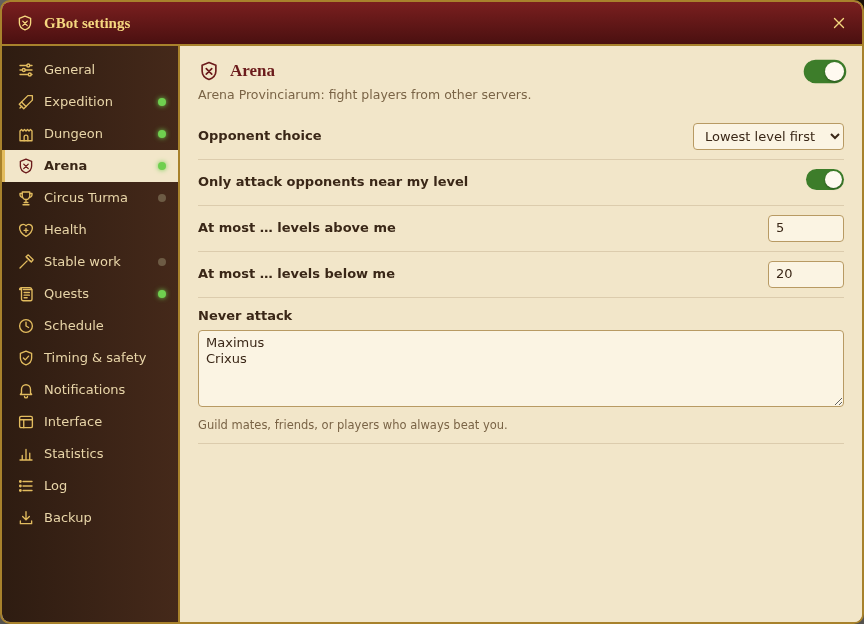
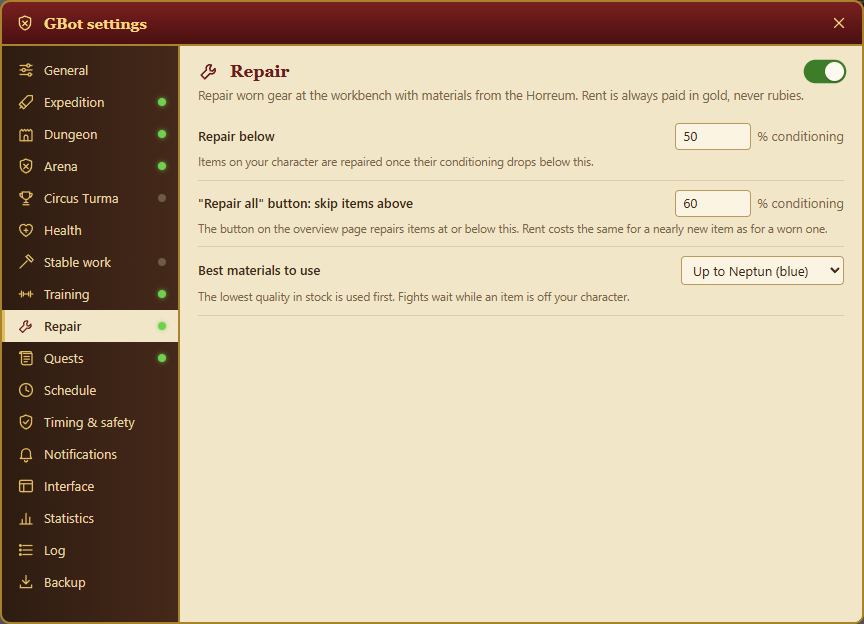
README: describe the current features; new settings screenshot
- Features: enemy nests, training, repair (automatic and the "Repair
  all" button), expedition bonuses before the boss, the arena/circus
  skip list, smarter quests; the bot never spends rubies. New sections
  explain the expedition bonuses and the workbench repair.
- Interface and settings tables match the current tabs and fields;
  statistics list the new totals; the docked bar notes.
- How it works: workbench.js, the immediate first paint, and why the
  repair uses the game's AJAX requests.
- Development: Microsoft Edge works as CHROMIUM_PATH for the e2e tests
  (all 11 pass with it); which features rely on unit tests.
- docs/settings-window.png: re-rendered from the mock game (Repair tab,
  with the Training and Repair tabs in the sidebar).

diff --git a/README.md b/README.md
@@ -14,14 +14,52 @@ of Gladiatus Time Saver, and a settings window lets you tailor every activity.
 
 | Activity | What the bot does |
 | --- | --- |
-| **Expeditions** | Attacks the enemy you choose (1-4) at a location you pick from the game's own list, or at your last visited one, whenever the cooldown is ready. It can keep some points in reserve. |
-| **Dungeons** | Starts a Normal or Advanced dungeon when none is running, then fights the enemies one by one. |
-| **Arena Provinciarum** | Attacks the lowest-level, highest-level or a random opponent. It can stick to opponents near your level and skip names on a never-attack list. If the game refuses a fight, it tries another opponent. |
+| **Expeditions** | Attacks the enemy you choose (1-4) at a location you pick from the game's own list, or at your last visited one, whenever the cooldown is ready. It can keep some points in reserve. With the boss selected, it can first fight the location's other enemies until all their bonuses are learned, so the boss gets them too (see below). |
+| **Dungeons** | Starts a Normal or Advanced dungeon when none is running, then fights the enemies one by one. It never presses *Cancel dungeon*, and it tells you when a dungeon is not unlocked yet. |
+| **Arena Provinciarum** | Attacks the lowest-level, highest-level or a random opponent. It can stick to opponents near your level and skip names on a never-attack list. Opponents who beat you are skipped for a while (24 hours by default). If the game refuses a fight, it tries another opponent. |
 | **Circus Turma Provinciarum** | Same options as the arena. |
+| **Enemy nests** | After some wins the game offers to search the enemy's nest for extra loot. The bot does a quick search, a thorough search, or returns to safety, as you choose. |
 | **Healing** | Eats food below one HP threshold and stops fighting below another. It searches every bag and picks the food that best fills the missing HP. |
+| **Training** | Optional. Spends gold above a reserve you set on stat points, always on the cheapest of the stats you pick, which keeps them balanced. Gold you spend cannot be stolen in the arena. |
+| **Repair** | Optional. When an item you wear drops below a conditioning threshold, the bot takes it off, repairs it at the workbench with materials from the Horreum, and puts it back on (see below). |
 | **Stable work** | Optional. Once you are out of expedition and dungeon points, it starts the job and number of hours you chose. |
-| **Pantheon quests** | Optional. Collects finished quests and accepts new ones of the types you pick. |
+| **Pantheon quests** | Optional. Collects finished quests and accepts the best-paying new one of the types you pick. It skips quests for places you do not fight at and for activities that are switched off, and stops when all quest slots are taken. |
 | **Pop-ups** | Collects the daily login bonus and closes notification dialogs. |
+
+**The bot never spends rubies.** Workbench rent is paid in gold, and expedition bonuses are only
+learned by fighting, never bought.
+
+### Expedition bonuses before the boss
+
+Every expedition enemy has four bonuses (more gold, experience, item chance and honour). Each win
+against an enemy has a chance to teach you one of its missing bonuses. The chance is shown in the
+bonus tooltip and depends on your character and the enemy. Once enemies 1-3 of a location have
+learned a bonus, the game switches it on for the boss as well.
+
+With the boss selected and *Before the boss, learn the other enemies' bonuses* on, the bot fights
+enemies 1-3 in turn, always the first one with bonuses still to learn, and moves on to the boss when
+they are done. The log shows the progress, e.g. *Skeleton Berserker has 4 bonuses left to learn
+(25% per win), fighting it before the boss*. Bonuses you gave up (deactivated for rubies) cannot be
+learned in combat and are not waited for.
+
+### Repairing gear at the workbench
+
+When an item on your character drops below the *Repair below* threshold (50% conditioning by
+default), the bot:
+
+1. takes the item off into a free spot in your bags;
+2. checks the Horreum for the materials the workbench asks for, using the lowest quality first and
+   stopping at the best quality you allow (Neptun, blue, by default);
+3. rents a workbench slot for gold, fills in the materials and starts the repair;
+4. collects the repaired item from the packages and puts it back on.
+
+Fights wait while an item is off your character. If the Horreum has no suitable materials, the item
+goes straight back on and is tried again in 6 hours. If a step keeps failing, the bot puts the item
+back on, or logs where it is (on the workbench or in the packages).
+
+The overview page also gets a **Repair all** button under your character. It repairs every item at
+or below a cutoff (60% by default, changeable under *Repair*), worst first, one at a time. It works
+even while the bot is stopped.
 
 You can also tailor how the bot behaves:
 
@@ -32,6 +70,8 @@ You can also tailor how the bot behaves:
   bot sleeps until the next cooldown ends instead of polling.
 * **Loop protection.** An activity that keeps failing, for example after a game update, is paused
   for a while instead of reloading the page forever. The reason appears in the log.
+* **Fight results.** Every combat report is read. The log shows each fight as won or lost with the
+  gold, experience and honour or fame it brought, and *Statistics* shows win rates and totals.
 * **Notifications.** Desktop alerts when you are logged out, when an activity gets paused, or when
   HP is low and there is no food left. Each one can be turned off.
 * **One tab per server, with a watchdog.** Only one game tab runs the bot. If that tab hangs, it is
@@ -45,16 +85,18 @@ You can also tailor how the bot behaves:
 * **Start / Stop** turns the bot on and off.
 * **Check now** re-checks the game immediately. **Minimise** folds the bar down to its title.
 * **Status** shows what the bot is doing, what comes next and when, plus your HP, expedition and
-  dungeon points, and gold.
+  dungeon points, and gold. It is filled in as soon as the page loads.
 * **Activity tiles** (Expedition, Dungeon, Arena, Circus, Heal, Work, Quests):
   * Click a tile to switch that activity on or off.
   * Each tile shows its live state: *ready*, a cooldown countdown, *no points*, *low HP*, *paused*,
     or *off*.
   * Hover a tile and click its small gear to open that activity's settings.
-* **Footer:** statistics for the session, and shortcuts to the stats and log.
+* **Last log line**, then a **footer** with statistics for the session and shortcuts to the stats
+  and log.
 
 The bar floats and can be dragged anywhere; its position is remembered. Under *Interface* you can
-instead dock it along the top of the page, where it pushes the game down rather than covering it:
+instead dock it along the top of the page, where it pushes the game (and Gameforge's own top strip)
+down rather than covering it. In a narrow window its tiles wrap onto a second row:
 
 ![Docked bar](docs/docked-bar.png)
 
@@ -66,18 +108,20 @@ what is enabled. Changes save as you make them and take effect immediately.
 
 | Tab | Options |
 | --- | --- |
-| General | Bot on/off, activity priority order |
-| Expedition | Location (last visited, one from the game's list, or any id), enemy 1-4, points to keep in reserve |
+| General | Bot on/off, activity priority order, enemy nest search (quick / thorough / return to safety / leave it to me) |
+| Expedition | Location (last visited, one from the game's list, or any id), enemy 1-4, learn the other enemies' bonuses before the boss, points to keep in reserve |
 | Dungeon | Location, Normal/Advanced, points to keep in reserve |
-| Arena / Circus Turma | Lowest / highest / random opponent, level range around yours, never-attack list |
-| Health | Eat food below X% HP, stop fighting below Y% HP |
+| Arena / Circus Turma | Lowest / highest / random opponent, level range around yours, never-attack list, how long to skip opponents who beat you |
+| Health | Eat food on/off, eat below X% HP, stop fighting below Y% HP |
 | Stable work | Job number, hours |
-| Quests | Quest types to accept |
+| Training | Gold to always keep, stats to train |
+| Repair | Repair below X% conditioning, cutoff for the *Repair all* button, best material quality to use |
+| Quests | Quest types to accept (combat, arena, circus, expedition, dungeon, items, work), only quests for my location and dungeon, only quests for activities that are on |
 | Schedule | Active hours, random breaks |
 | Timing & safety | Click delay range, longest idle time, failed attempts before pausing, pause length |
 | Notifications | Which desktop notifications to show |
 | Interface | Show the bar, floating or docked |
-| Statistics | Fights per activity, per-hour rates, gold change, reset |
+| Statistics | Fights per activity with wins, losses and win rate; meals, nests, quests, work shifts, stats trained, items repaired; gold looted, experience, honour and fame; gold change; per-hour rates; reset |
 | Log | Recent activity, filter to warnings only, clear |
 | Backup | Export to a file or the clipboard, import, reset to defaults |
 
@@ -104,6 +148,9 @@ for statistics and logs.
 In Firefox the extension may start without access to the game website. If the popup shows
 **Grant access**, click it (or allow the site under *about:addons → GBot → Permissions*).
 
+After changing or updating the files, reload the extension (the ↻ button on its card in
+`chrome://extensions`) and refresh the game tab.
+
 ### Packaged zips
 
 ```sh
@@ -114,7 +161,8 @@ npm run build        # -> dist/gbot-chrome.zip and dist/gbot-firefox.zip
 ## Usage
 
 1. Log in to your Gladiatus server as usual. The GBot bar appears on the game page.
-2. Switch the activities you want on in the tiles. Fine-tune them in the settings window.
+2. Switch the activities you want on in the tiles. Fine-tune them in the settings window. Training
+   and Repair are off until you switch them on in their tabs.
 3. Press **Start**.
 
 Keep the game tab open (it can be in the background). The bot never logs in for you: if the session
@@ -126,10 +174,14 @@ expires, log in again and it carries on. Settings saved by version 1.0 are migra
 manifest.json                 MV3 manifest, valid for Chrome and Firefox
 src/shared/settings.js        defaults, validation rules, migration, storage
 src/content/selectors.js      ALL knowledge of the game's HTML (IDs, classes, URLs)
-src/content/state.js          reads HP, points, cooldowns, locations, dialogs from the DOM
-src/content/brain.js          pure decision engine: priority, schedule, retries, tile status
+src/content/state.js          reads HP, points, cooldowns, locations, dialogs, combat reports
+                              and expedition bonuses from the DOM
+src/content/brain.js          pure decision engine: priority, schedule, retries, tile status,
+                              quest choice, training, repair planning
 src/content/actions.js        performs decisions: navigate, click, drag food, fill forms
-src/content/main.js           runner: read state → decide → act, once per page load
+src/content/workbench.js      gear repair through the game's own AJAX requests
+src/content/main.js           runner: show the bar, then read state → decide → act, once per
+                              page load; also the overview page's "Repair all" button
 src/content/panel.js          in-game control bar + settings window (shadow DOM)
 src/ui/schema.js              declarative list of every settings tab and field
 src/ui/settings-ui.js         renders the schema; shared by game window, popup and options page
@@ -146,8 +198,16 @@ again on every page load:
 3. Decide the next step.
 4. Perform it.
 
-Anything that must survive a page load, such as attempt counters, work end time, stats and the
-log, is kept per server in extension storage.
+Anything that must survive a page load, such as attempt counters, work end time, a repair in
+progress, stats and the log, is kept per server in extension storage.
+
+The bar is filled in from storage and the page as soon as the page is parsed. The first action
+waits 0.8-2 seconds so the game's own scripts are ready, and every click waits the human-like
+delay from *Timing & safety*.
+
+The workbench repair does not click through pages: like the game's own workbench, packages and
+inventory pages, it sends the game's AJAX requests (with its CSRF token), so the bot stays on the
+current page while an item is repaired.
 
 To add a setting, add a default in `settings.js`, optionally a validation rule, and a field in
 `schema.js`. The settings window, popup and options page pick it up automatically.
@@ -156,16 +216,15 @@ To add a setting, add a default in `settings.js`, optionally a validation rule, 
 
 All selectors live in [`src/content/selectors.js`](src/content/selectors.js). If a feature stops
 working, the bot pauses that activity and logs what it could not find. Updating the matching
-selector there is usually enough. The selectors follow the structure used by established
-open-source Gladiatus tools (such as Gladiatus Crazy Addon and several userscripts), but the live
-game can differ between servers and versions.
+selector there is usually enough. The selectors were checked against a live English server in
+September 2026, but the game can differ between servers and versions.
 
 ## Development
 
 ```sh
 npm install
 npm run lint        # syntax check; every file referenced by the manifest and pages exists
-npm test            # unit tests: decision engine, settings, parsers, settings UI (jsdom)
+npm test            # unit tests: decision engine, settings, page parsers, settings UI (jsdom)
 npm run test:e2e    # loads the extension in Chromium and plays against a mock game server
 npm run icons       # regenerate icons/*.png
 npm run build       # dist/gbot-chrome.zip, dist/gbot-firefox.zip
@@ -180,7 +239,11 @@ inventory drag and drop. The tests cover:
 * the interface: the control bar tiles and layouts, the in-game settings window, the popup, and
   the options page (statistics, log, import, reset).
 
-They need a Chromium binary: set `CHROMIUM_PATH`, or install Playwright's Chromium.
+They need a Chromium-based browser: set `CHROMIUM_PATH` (Microsoft Edge works, e.g.
+`C:\Program Files (x86)\Microsoft\Edge\Application\msedge.exe`), or install Playwright's Chromium.
+
+The newer features (fight results, nest search, training, repair and expedition bonuses) are
+covered by unit tests, with page samples taken from the live game, rather than by the mock server.
 
 ## License
 
